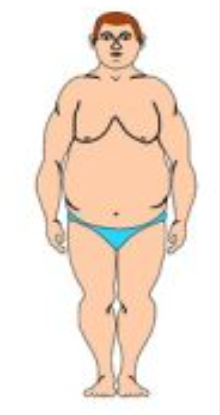
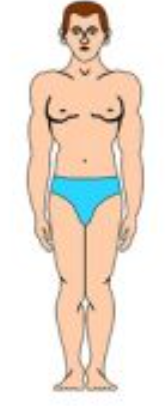
add bodyStructure images

Changed region(s): [[0.1497, 0.0, 0.8982, 0.9754]]

diff --git a/src/pages/OnboardingPage.tsx b/src/pages/OnboardingPage.tsx
@@ -186,21 +186,22 @@ const questions: Question[] = [
       {
         value: "slim",
         label: "Slim Builder",
-        description: "Naturally lean, find it harder to gain weight or muscle",
-        image: slimBuilder, // slim person
+        description:
+          "Naturally lean, finds it harder to gain weight or muscle. Fast metabolism, narrow frame.",
+        image: slimBuilder,
       },
       {
         value: "athletic",
         label: "Athletic Builder",
         description:
-          "Naturally muscular, respond well to training, gain/lose weight easily",
+          "Naturally muscular and athletic. Gains muscle easily and maintains a balanced physique.",
         image: athleticBuilder,
       },
       {
         value: "solid",
         label: "Solid Builder",
         description:
-          "Naturally heavier, gain muscle easily but may also gain fat more easily",
+          "Naturally broader and rounder. Tends to store fat easily and may struggle with weight loss.",
         image: solidBuilder,
       },
     ],
@@ -482,7 +483,7 @@ export default function OnboardingPage() {
                   <img
                     src={option.image || "/placeholder.svg"}
                     alt={option.label}
-                    width={100}
+                    width={150}
                     height={200}
                     className="rounded-lg"
                   />
